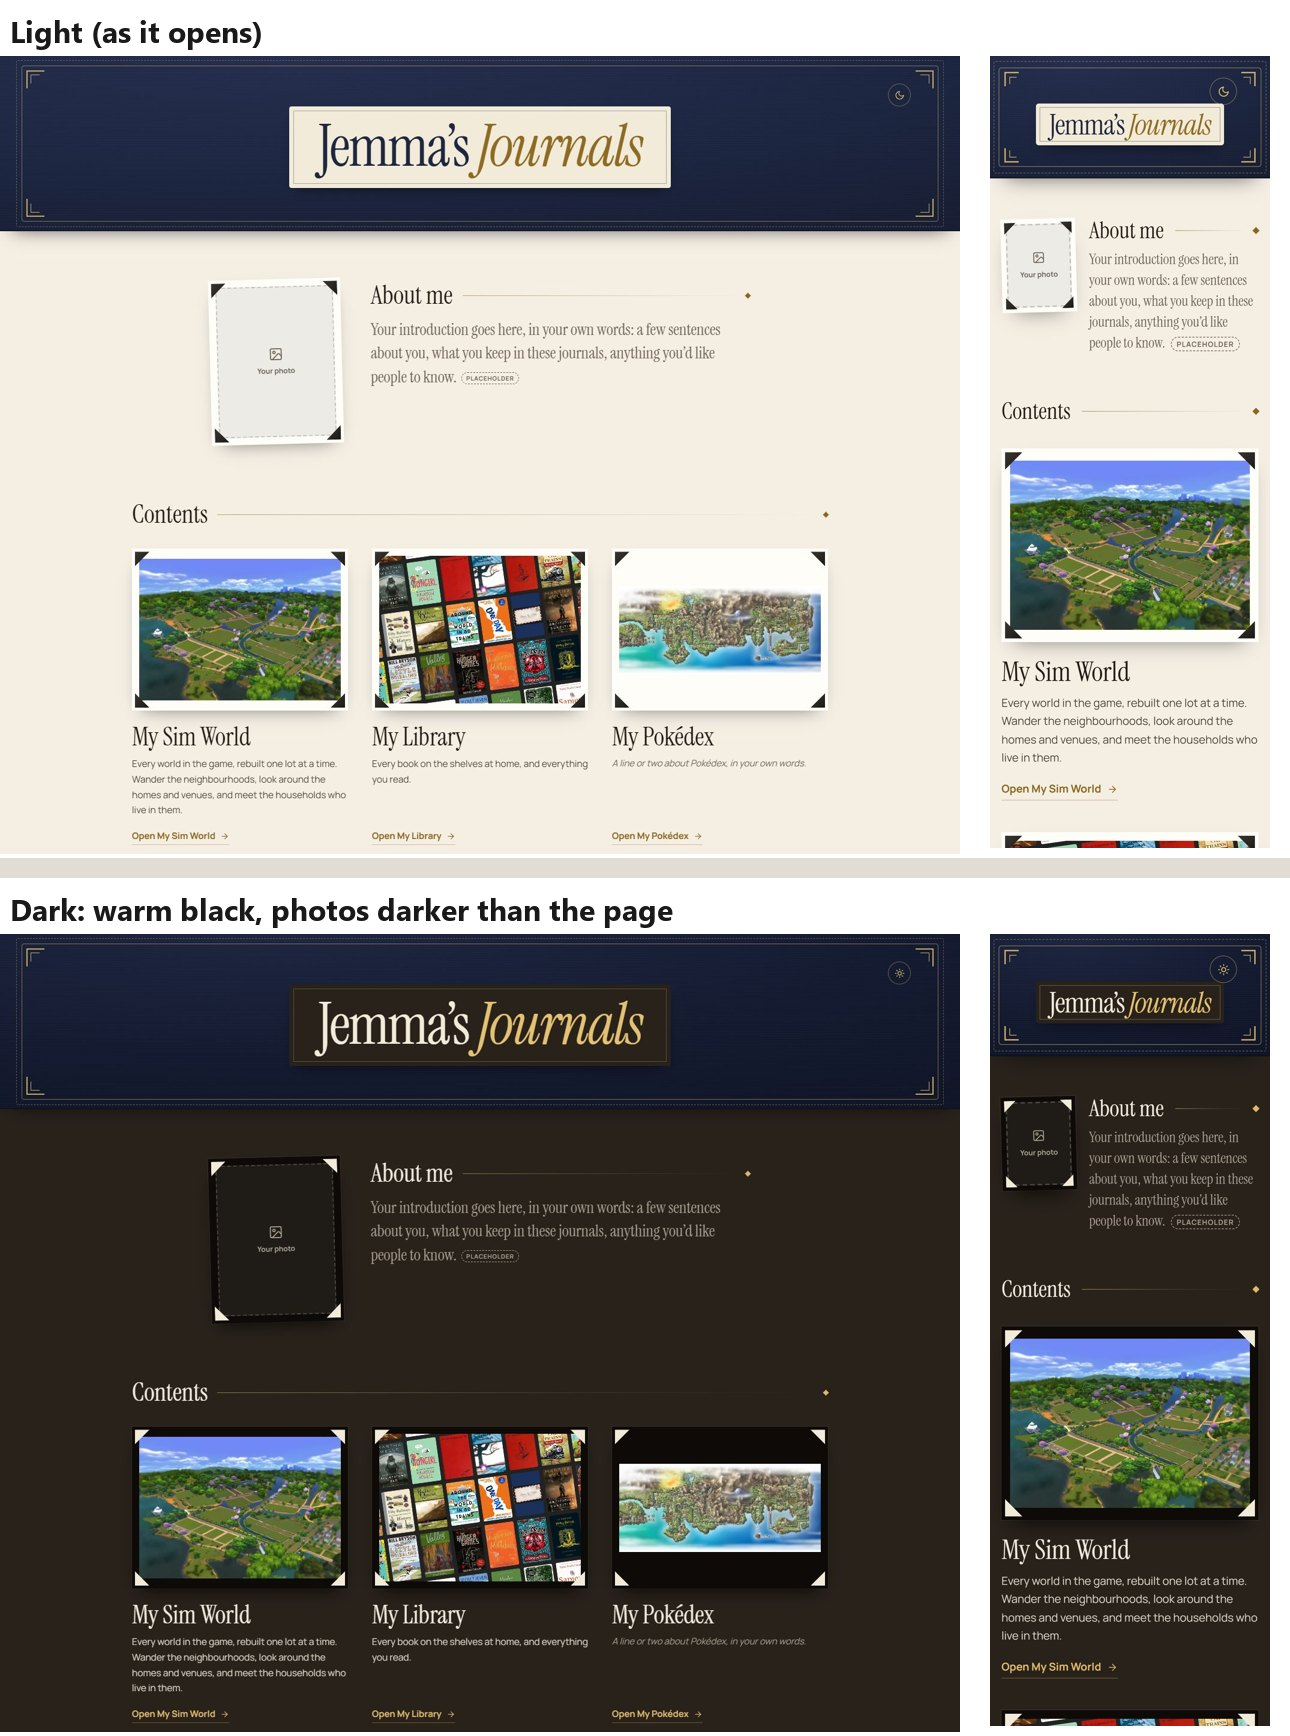
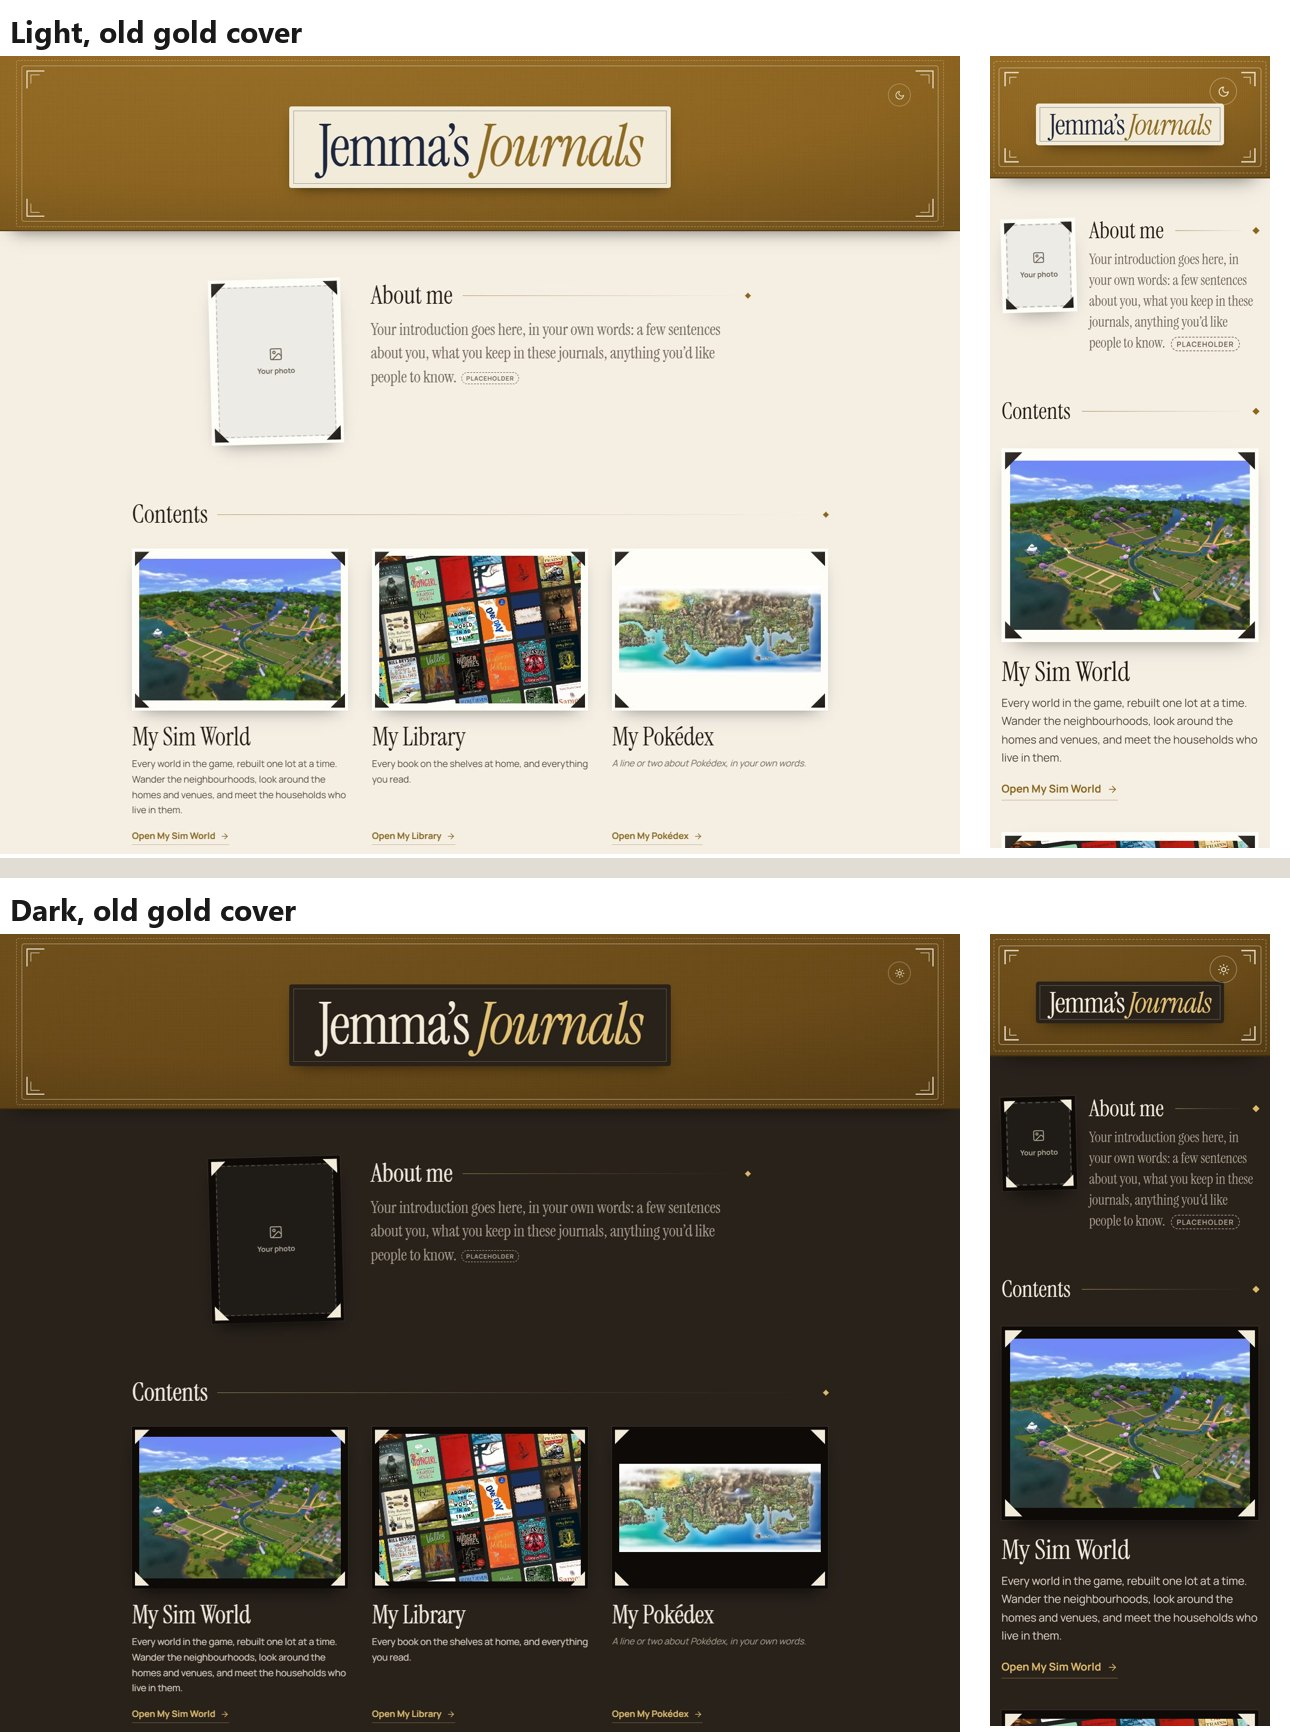
Cover is old gold (her pick): page, 404, phone bar colour and drafts; trial switch row removed

Changed region(s): [[0.0, 0.4977, 0.9922, 0.6532], [0.0, 0.0, 0.9922, 0.1555]]

diff --git a/concepts/index.html b/concepts/index.html
@@ -1,6 +1,6 @@
 <title>Jemma’s Journals</title>
 <meta name="claude:viewport-fit-sides" content="cover">
-<meta name="theme-color" content="#1C2540">
+<meta name="theme-color" content="#8E6520">
 <meta name="robots" content="noindex, noai, noimageai">   <!-- her choice, 20 Nov: keep out of search engines and AI -->
 <!-- Tab icon: drawn by Jemma on 20 Nov (book, gold corners, her two J’s); made by tools/draw-icon.html -->
 <link rel="icon" href="favicon.ico" sizes="16x16 32x32 48x48">
@@ -20,7 +20,7 @@
 
 :root{
   /* cream page, ink, a muted gold; the banner is navy cloth with a cream title label */
-  --bg:#F4EEE3; --ink:#221D17; --soft-ink:#463D33; --mute:#6E6458; --line:#DDD3C3; --acc:#8A661E; --mat:#FFFDF8; --cover:#1C2540; --gold:#E4C072; --label:#F3EBDA; --label-ink:#1F2740;
+  --bg:#F4EEE3; --ink:#221D17; --soft-ink:#463D33; --mute:#6E6458; --line:#DDD3C3; --acc:#8A661E; --mat:#FFFDF8; --cover:#8E6520; --cover-hi:#C2943F; --deco:#F3EBDA; --gold:#E4C072; --label:#F3EBDA; --label-ink:#1F2740;
   --display:"Instrument Serif","Iowan Old Style","Palatino Linotype",Georgia,serif;
   --body:"Manrope","Segoe UI",system-ui,sans-serif;
   --g:clamp(16px,4vw,56px); --frame:max(calc(var(--g) - 20px),12px);
@@ -29,7 +29,7 @@
 }
 /* dark only when the button is pressed (her choice: light by default) */
 :root[data-mode="dark"]{
-  --bg:#29221B; --ink:#EFE9DE; --soft-ink:#D6CEC1; --mute:#A89F91; --line:#40362B; --acc:#DDB86A; --mat:#E9E2D4; --cover:#131A30;
+  --bg:#29221B; --ink:#EFE9DE; --soft-ink:#D6CEC1; --mute:#A89F91; --line:#40362B; --acc:#DDB86A; --mat:#E9E2D4; --cover:#6A4A17; --cover-hi:#93702F;
   --sw-bg:#1E2330; --sw-ink:#ECEEF3; --sw-mute:#9AA1B2; --sw-line:#30364A; --sw-on:#ECEEF3; --sw-on-ink:#151923; color-scheme:dark }
 /* dark mode turns the light things dark (her ask, 20 Nov): the title label and the photo mats go blackish, the photo corners go cream-white */
 :root[data-mode="dark"]{--label:var(--bg); --label-ink:#F3EBDA}   /* same as the page, as the cream label matches the cream page in light */
@@ -177,13 +177,6 @@ svg.i{width:1em;height:1em;flex:none;fill:none;stroke:currentColor;stroke-width:
 .about-site .cr{white-space:nowrap}   /* each credit stays in one piece when the line wraps */
 
 /* ================================================================ Ideas to try for the whole page (switch) */
-/* cover colours to try (her ask, 20 Nov: navy feels too cool; something more yellow/gold?) */
-:root[data-cover="2"]{--cover:#B4852B;--cover-hi:#E2B85C;--deco:#3B2A10}
-:root[data-cover="3"]{--cover:#8E6520;--cover-hi:#C2943F;--deco:#F3EBDA}
-:root[data-cover="4"]{--cover:#563F1C;--cover-hi:#8C6A34;--deco:#E4C072}
-:root[data-mode="dark"][data-cover="2"]{--cover:#8C661F;--cover-hi:#B98E40}
-:root[data-mode="dark"][data-cover="3"]{--cover:#6A4A17;--cover-hi:#93702F}
-:root[data-mode="dark"][data-cover="4"]{--cover:#3D2C13;--cover-hi:#69502A}
 /* stitching round the cover (her pick, 20 Nov) */
 .cover::after{content:"";position:absolute;inset:7px max(calc(var(--frame) - 9px),5px);border:1.5px dashed color-mix(in srgb,var(--deco,var(--gold)) 38%,transparent);border-radius:3px;pointer-events:none}
 /* gentle entrance (her pick, 20 Nov): sections fade up softly once, as the page opens (not for anyone who has reduced motion turned on) */
@@ -245,7 +238,6 @@ svg.i{width:1em;height:1em;flex:none;fill:none;stroke:currentColor;stroke-width:
 <div id="page"></div>
 
 <div class="sw" role="group" aria-label="Try it">
-  <div class="row"><span class="lab">Cover</span><button type="button" data-cover="1">1 · Navy (as now)</button><button type="button" data-cover="2">2 · Mustard</button><button type="button" data-cover="3">3 · Old gold</button><button type="button" data-cover="4">4 · Bronze</button></div>
   <div class="row"><button type="button" id="more" aria-pressed="false">+ More places</button></div>
 </div>
 <div class="toast" id="toast" role="status" hidden></div>
@@ -286,9 +278,9 @@ svg.i{width:1em;height:1em;flex:none;fill:none;stroke:currentColor;stroke-width:
   function h2(text,id){ return '<div class="h2"><h2'+(id?' id="'+id+'"':'')+'>'+text+'</h2><span class="rule"><i></i><b></b></span></div>'; }
 
   // state: more places (to show how it grows), light/dark (light unless the button is pressed). Her picks: the Improved version, with About this site.
-  var more=0, root=document.documentElement, userMode='light', cover=1;   // cover: colours to try (1 navy … 4 bronze)   // more: how many stand-in places to add (0–3), to show how the page grows
+  var more=0, root=document.documentElement, userMode='light';   // more: how many stand-in places to add (0–3), to show how the page grows
   try{ var m=localStorage.getItem('jj-mode2'); if(m==='dark') userMode='dark'; localStorage.removeItem('jj-foot'); }catch(e){}
-  location.hash.slice(1).split('--').forEach(function(w){ if(w==='more') more=3; var mm=/^more([123])$/.exec(w); if(mm) more=+mm[1]; if(w==='dark'||w==='light') userMode=w; var cm=/^cover([1234])$/.exec(w); if(cm) cover=+cm[1];
+  location.hash.slice(1).split('--').forEach(function(w){ if(w==='more') more=3; var mm=/^more([123])$/.exec(w); if(mm) more=+mm[1]; if(w==='dark'||w==='light') userMode=w;
     });
 
   // About this site: two quiet lines (her pick, 20 Nov: option 2, each credit starting with a capital)
@@ -297,7 +289,7 @@ svg.i{width:1em;height:1em;flex:none;fill:none;stroke:currentColor;stroke-width:
     return '<div class="about-site two"><p>No cookies, no tracking, no ads. Made with plain HTML and CSS, kept on GitHub.</p>'
       +'<p>'+['World maps by 20th Century Plumbob','Region maps from the Pokémon games','Book covers from their publishers','Fonts: Instrument Serif and Manrope','Icons by Lucide'].map(function(t){ return '<span class="cr">'+t+'</span>'; }).join(' '+DOT+' ')+'</p></div>';
   }
-  function applyMode(){ root.setAttribute('data-mode', userMode); root.setAttribute('data-cover', cover); document.querySelectorAll('.sw [data-cover]').forEach(function(b){ b.setAttribute('aria-pressed', +b.dataset.cover===cover ? 'true':'false'); }); }
+  function applyMode(){ root.setAttribute('data-mode', userMode); }
   applyMode();
 
   var firstRender=true;   // the gentle entrance plays once, when the page first opens
@@ -334,7 +326,6 @@ svg.i{width:1em;height:1em;flex:none;fill:none;stroke:currentColor;stroke-width:
   var toast=document.getElementById('toast'), t;
   function say(m){ toast.textContent=m; toast.hidden=false; clearTimeout(t); t=setTimeout(function(){ toast.hidden=true; },1800); }
   document.addEventListener('click',function(e){
-    var cb=e.target.closest('.sw [data-cover]'); if(cb){ cover=+cb.dataset.cover; applyMode(); return; }
     if(e.target.closest('#more')){ more=(more+1)%4; render(); return; }
     if(e.target.closest('[data-top]')){ e.preventDefault(); window.scrollTo(0,0); return; }
     if(e.target.closest('[data-mode-btn]')){

diff --git a/concepts/404.html b/concepts/404.html
@@ -4,7 +4,7 @@
 <meta charset="utf-8">
 <meta name="viewport" content="width=device-width, initial-scale=1">
 <title>Page not found · Jemma’s Journals</title>
-<meta name="theme-color" content="#1C2540">
+<meta name="theme-color" content="#8E6520">
 <meta name="robots" content="noindex, noai, noimageai">   <!-- her choice, 20 Nov: keep out of search engines and AI -->
 <link rel="icon" href="/favicon.ico" sizes="16x16 32x32 48x48">
 <link rel="icon" href="/img/icon/icon-192.png" type="image/png" sizes="192x192">
@@ -15,11 +15,11 @@
 @font-face{font-family:"Instrument Serif";font-style:normal;font-weight:400;font-display:swap;src:url(/fonts/instrument-serif-latin.woff2) format("woff2")}
 @font-face{font-family:"Instrument Serif";font-style:italic;font-weight:400;font-display:swap;src:url(/fonts/instrument-serif-italic-latin.woff2) format("woff2")}
 @font-face{font-family:"Manrope";font-style:normal;font-weight:200 800;font-display:swap;src:url(/fonts/manrope-latin.woff2) format("woff2")}
-:root{--bg:#F4EEE3;--ink:#221D17;--mute:#6E6458;--acc:#8A661E;--cover:#1C2540;--gold:#E4C072;--label:#F3EBDA;--label-ink:#1F2740;color-scheme:light}
+:root{--bg:#F4EEE3;--ink:#221D17;--mute:#6E6458;--acc:#8A661E;--cover:#8E6520;--gold:#E4C072;--label:#F3EBDA;--label-ink:#1F2740;color-scheme:light}
 *{box-sizing:border-box}
 html,body{margin:0;min-height:100%;background:var(--bg);color:var(--ink);font:400 16px/1.65 "Manrope","Segoe UI",system-ui,sans-serif}
-.cover{position:relative;padding:56px 20px 50px;text-align:center;background:radial-gradient(110% 120% at 30% 0%,#2E3A60,var(--cover) 60%,#141B30);box-shadow:0 18px 30px -22px rgba(0,0,0,.7)}
-.cover::before{content:"";position:absolute;inset:16px;border:1.5px solid color-mix(in srgb,var(--gold) 50%,transparent);border-radius:4px}
+.cover{position:relative;padding:56px 20px 50px;text-align:center;background:radial-gradient(110% 120% at 30% 0%,#A27A33,var(--cover) 60%,#5E4313);box-shadow:0 18px 30px -22px rgba(0,0,0,.7)}
+.cover::before{content:"";position:absolute;inset:16px;border:1.5px solid color-mix(in srgb,#F3EBDA 50%,transparent);border-radius:4px}
 .cover a{display:inline-block;font:400 clamp(36px,6vw,64px)/1 "Instrument Serif",Georgia,serif;letter-spacing:-.025em;background:var(--label);color:var(--label-ink);padding:.2em .5em .22em;border-radius:4px;text-decoration:none;outline:1.5px solid rgba(31,39,64,.35);outline-offset:-7px;position:relative}
 .cover a em{color:#8E6A22}
 main{max-width:640px;margin:0 auto;padding:72px 20px 96px;text-align:center}

diff --git a/research/drafts/head.html b/research/drafts/head.html
@@ -9,7 +9,7 @@
   <meta name="color-scheme" content="light">   <!-- light by default, her choice; the button switches to dark -->
   <title>Jemma’s Journals</title>
   <!-- CHOICE: a one-line description in her own words (shown in some link previews), e.g. <meta name="description" content="…"> -->
-  <meta name="theme-color" content="#1C2540">   <!-- the banner's navy, used by phone browsers for the bar -->
+  <meta name="theme-color" content="#8E6520">   <!-- the banner's navy, used by phone browsers for the bar -->
 
   <!-- Her choice (20 Nov): keep it out of search engines and AI (a request, not privacy). Each of her other sites needs the same line. -->
   <meta name="robots" content="noindex, noai, noimageai">

diff --git a/CLAUDE.md b/CLAUDE.md
@@ -17,7 +17,7 @@ The home page that links Jemma’s other sites: her Sims 4 save (`Documents\SimT
 
 ## Her decisions so far
 
-- Navy cloth-cover banner with the title on a cream label; no elastic-band stripe.
+- Cloth-cover banner with the title on a cream label; no elastic-band stripe. **Cover colour: old gold** (#8E6520, cream trim; dark #6A4A17), her pick 20 Nov evening, replacing navy (too cool). Tab icon and share picture are still navy.
 - Places as photos in album corners, named “My Sim World”, “My Library”, “My Pokédex”, nothing above the names.
 - Only the photo and “Open …” are links (not the whole card).
 - Library’s picture: the tilted wall of her covers. Sim World and Pokédex: a full map, nothing added on top. Which ones is open: she’ll supply a Sims picture; for Pokédex she’d like the combined Johto and Kanto painting (official HeartGold/SoulSilver art, PidgiWiki `File:Johto_and_Kanto_-_Pokemon_HeartGold_and_SoulSilver.jpg`; not on her PC yet).
